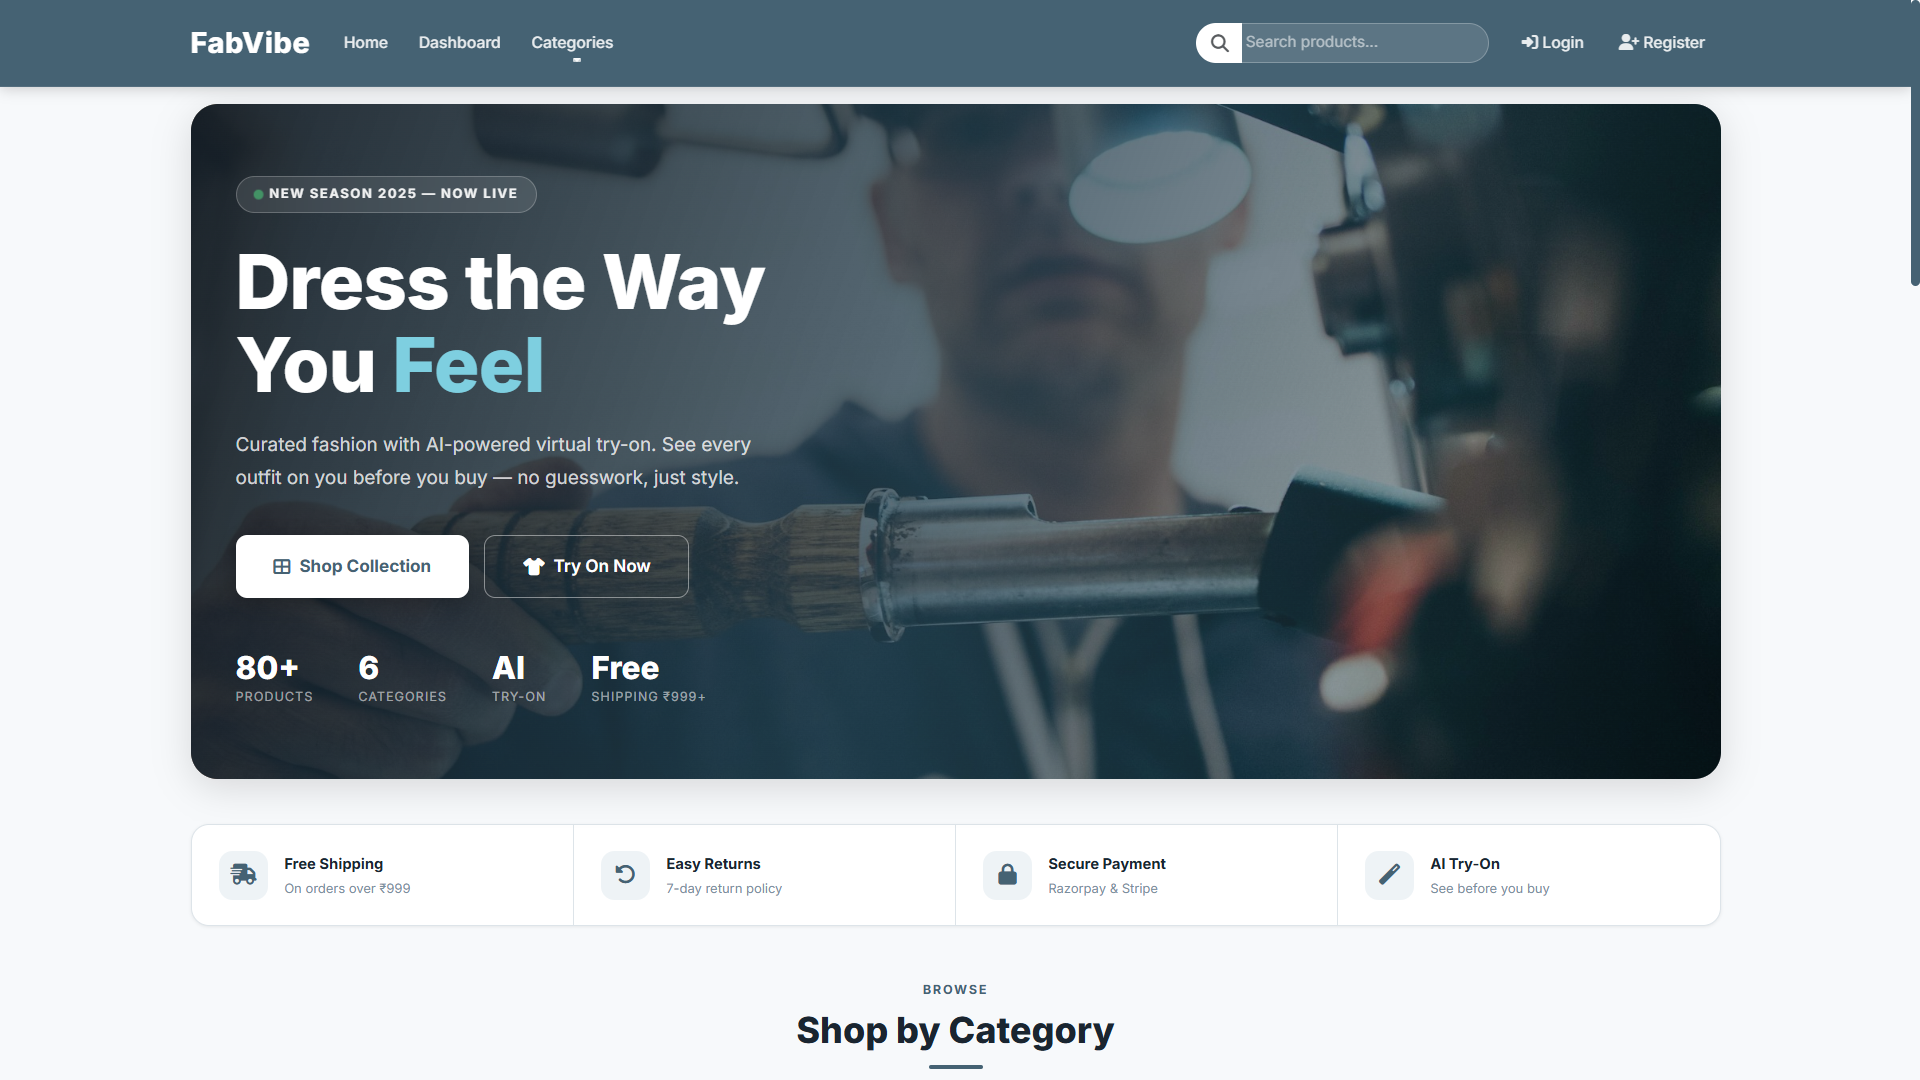
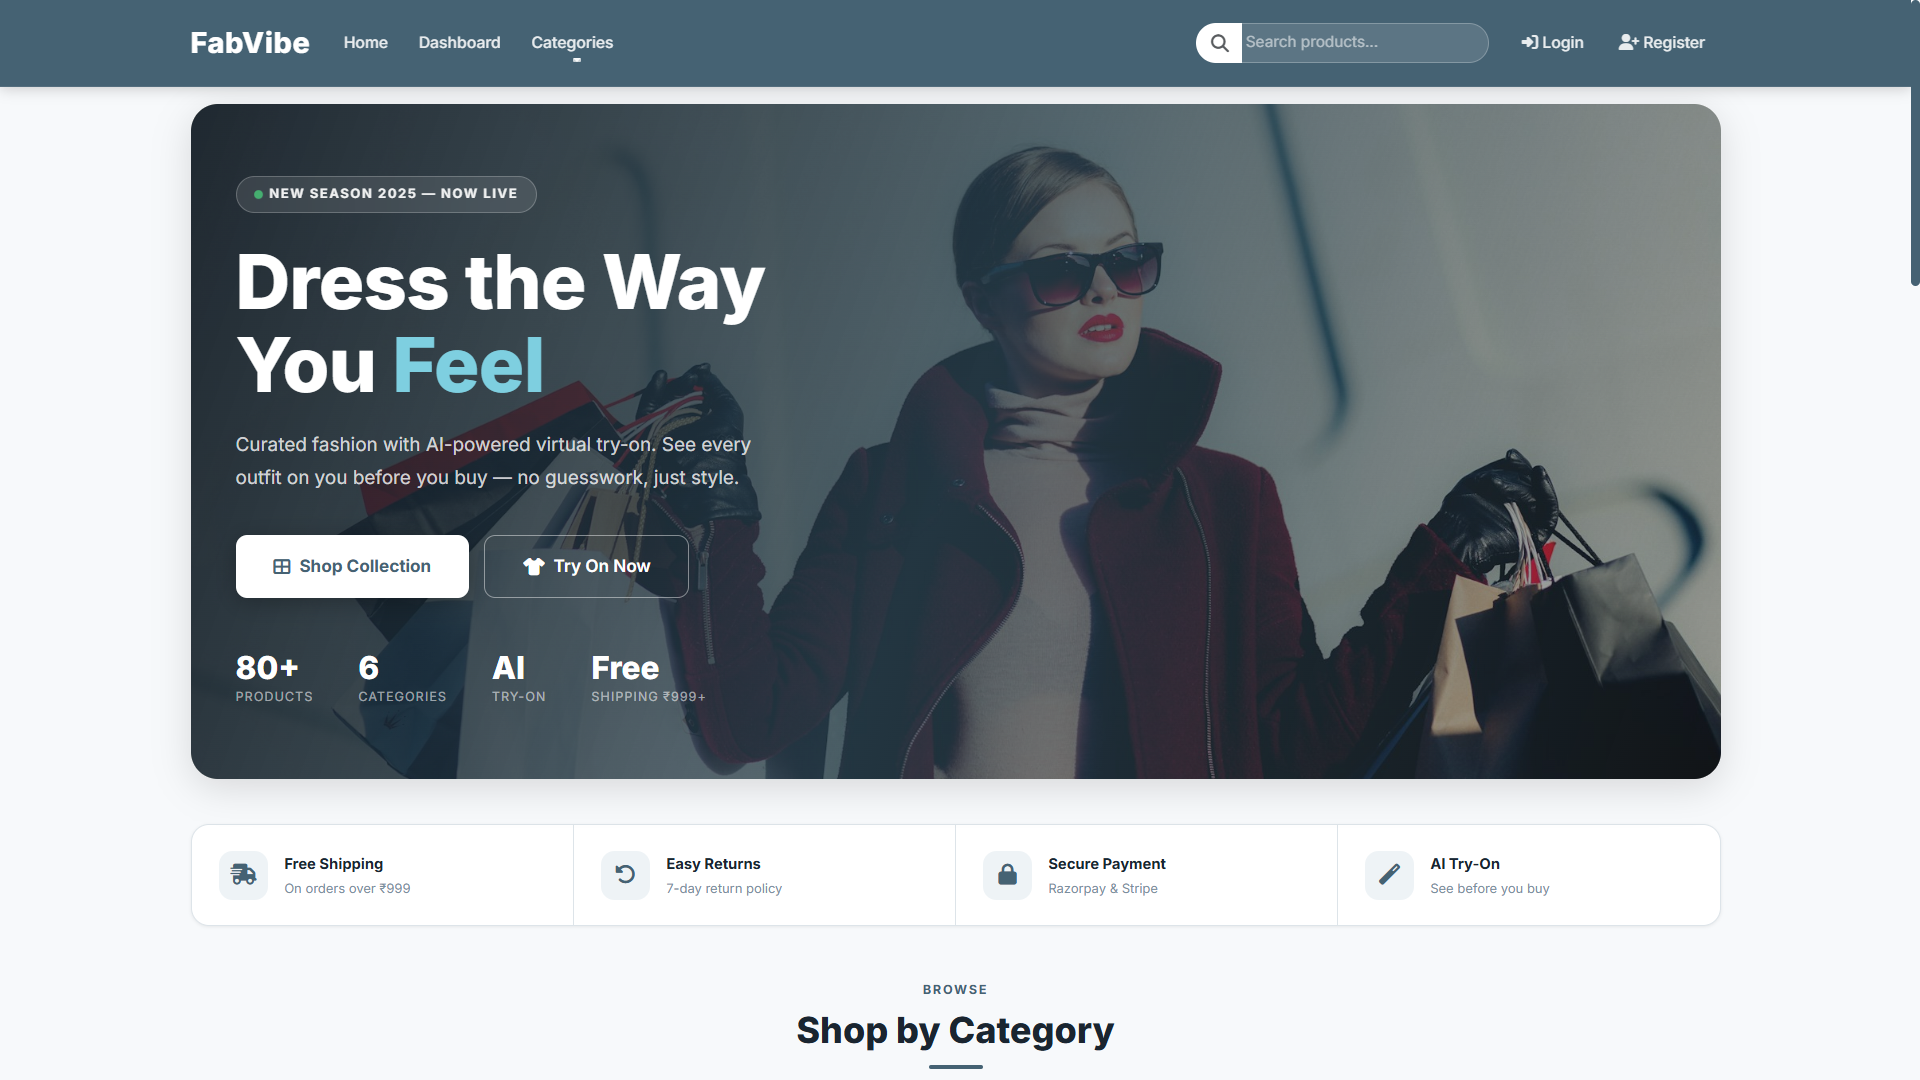
Removed notes file

diff --git a/templates/products/home.html b/templates/products/home.html
@@ -19,7 +19,7 @@
 }
 .hero-bg {
   position: absolute; inset: 0;
-  background: url('https://images.unsplash.com/photo-1558618666-fcd25c85cd64?w=1920&q=80') center/cover no-repeat;
+  background: url('https://images.unsplash.com/photo-1483985988355-763728e1935b?w=1920&q=80') center/cover no-repeat;
 }
 .hero-overlay {
   position: absolute; inset: 0;
